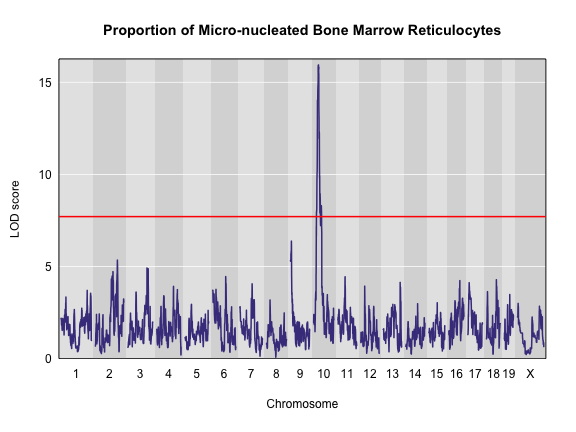
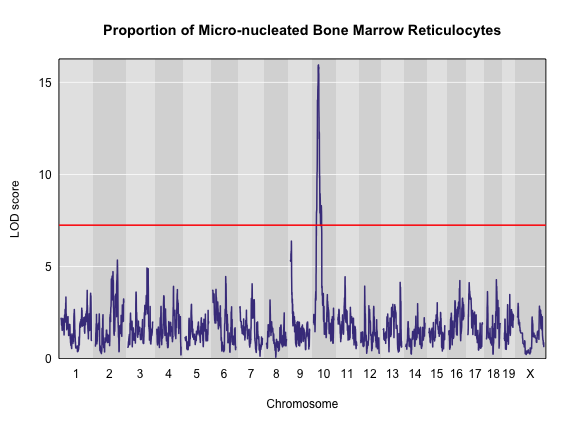
updates to DO episode

Changed region(s): [[0.0938, 0.4815, 0.9375, 0.5417]]

diff --git a/_episodes/13-qtl-in-do.md b/_episodes/13-qtl-in-do.md
@@ -168,7 +168,6 @@ Kinship values between pairs of samples range between 0 (no relationship) and 1.
 image(1:nrow(K[[1]]), 1:ncol(K[[1]]), K[[1]][,ncol(K[[1]]):1], xlab = "Samples", 
       ylab = "Samples", yaxt = "n", main = "Kinship between samples", 
       breaks = 0:100/100, col = heat.colors(length(0:100) - 1))
-axis(side = 2, at = 20 * 0:7, labels = 20 * 7:0, las = 1)
 ~~~
 {: .r}
 
@@ -248,11 +247,11 @@ plot_scan1(x = qtl, map = map, main = "Proportion of Micro-nucleated Bone Marrow
 {: .challenge} 
 
 
-This challenge shows the importance of looking at your data and transforming it to meet the expectations of the mapping model. In this case, a log transformation improved the model fit and increased the LOD score. We will continue the rest of this lesson using the log-transformed data. Set your `index` variable equal to the column index of `prop.bm.MN.RET`.
+This challenge shows the importance of looking at your data and transforming it to meet the expectations of the mapping model. In this case, a log transformation improved the model fit and increased the LOD score. We will continue the rest of this lesson using the log-transformed data. Set your `index` variable equal to the column index of `log.prop.bm.MN.RET`.
 
 
 ~~~
-index = which(colnames(pheno) == "prop.bm.MN.RET")
+index = which(colnames(pheno) == "log.prop.bm.MN.RET")
 ~~~
 {: .r}
 
